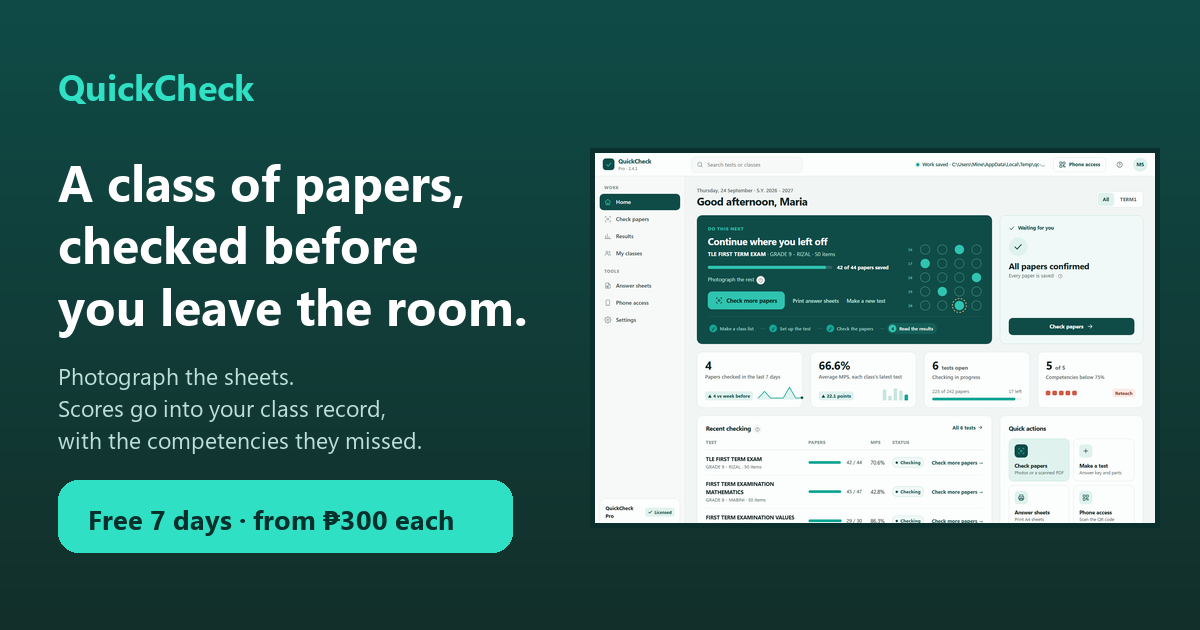
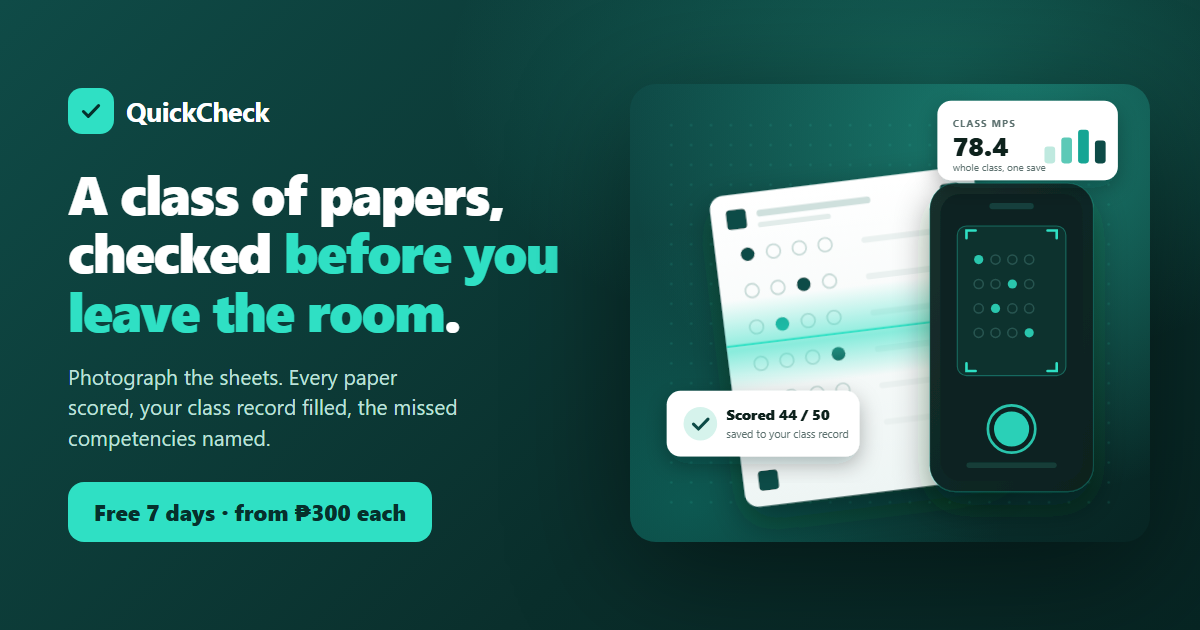
Designed artwork instead of app screenshots
Screenshots of a desktop app made the page look dated and, at page size, unreadable. The hero, the learning-gaps section and the class-record section are now drawn artwork in the brand colours: a phone photographing an answer sheet with the score and class result beside it, competencies ranked weakest first with the learners named, and scores landing in a class record with the backup and report. They are SVG, so they stay sharp on any screen and weigh a few kilobytes instead of a few hundred. The Facebook share picture is rebuilt from the same artwork.

diff --git a/index.html b/index.html
@@ -105,30 +105,11 @@
   .hero-trust span{display:flex; align-items:center; gap:8px; font-size:13.5px; color:var(--muted); font-weight:600;}
   .hero-trust svg{width:17px; height:17px; color:var(--teal);}
 
-  /* Device pictures */
-  .shots{position:relative; padding:10px 0 30px;}
-  .shots .laptop{position:relative; background:var(--paper); border:1px solid var(--line); border-radius:16px;
-    box-shadow:var(--shadow-l); overflow:hidden;}
-  .shots .bar{display:flex; align-items:center; gap:6px; padding:9px 12px; background:var(--panel); border-bottom:1px solid var(--line);}
-  .shots .bar i{width:9px; height:9px; border-radius:50%; background:var(--line); display:block;}
-  .shots .bar i:first-child{background:#f0b8ab;} .shots .bar i:nth-child(2){background:#f3d9a5;} .shots .bar i:nth-child(3){background:var(--teal-edge);}
-  .shots .phone{position:absolute; right:-14px; bottom:-8px; width:31%; min-width:150px; background:var(--teal-night);
-    border-radius:26px; padding:7px; box-shadow:var(--shadow-l); border:1px solid rgba(255,255,255,.08);}
-  .shots .phone img{border-radius:20px;}
-  .chip{position:absolute; display:flex; align-items:center; gap:10px; background:var(--paper); border:1px solid var(--line);
-    border-radius:14px; padding:10px 14px; box-shadow:var(--shadow); font-size:13px; font-weight:700;}
-  .chip small{display:block; font-size:11.5px; font-weight:600; color:var(--muted);}
-  .chip .dot{width:30px; height:30px; border-radius:10px; display:grid; place-items:center; flex:0 0 auto;}
-  .chip .dot svg{width:16px; height:16px;}
-  .chip.one{left:-16px; top:12%;} .chip.one .dot{background:var(--teal-soft); color:var(--teal-deep);}
-  .chip.two{left:-26px; bottom:18%;} .chip.two .dot{background:var(--amber-bg); color:var(--amber);}
-  @media (max-width:1100px){ .chip.one{left:-6px;} .chip.two{left:-10px;} }
-  @media (max-width:980px){
-    .hero{grid-template-columns:1fr; gap:34px; padding-top:34px;}
-    .hero .lead{max-width:none;}
-    .chip.one{left:auto; right:6px; top:-12px;} .chip.two{left:-4px; bottom:-10px;}
-  }
-  @media (max-width:560px){ .chip{font-size:12px; padding:8px 11px;} .chip small{display:none;} }
+  /* Hero artwork */
+  .shots{display:flex; justify-content:center;}
+  .hero-art{width:100%; max-width:600px; height:auto; filter:drop-shadow(0 30px 60px rgba(12,55,52,.22));}
+  .split .pic img{border:0; box-shadow:none; filter:drop-shadow(0 22px 44px rgba(12,55,52,.16));}
+  @media (max-width:980px){ .hero{grid-template-columns:1fr; gap:34px; padding-top:34px;} .hero .lead{max-width:none;} }
 
   /* ---------- Proof strip ---------- */
   .strip{background:var(--paper); border-top:1px solid var(--line); border-bottom:1px solid var(--line); padding:26px 0;}
@@ -293,21 +274,7 @@
       </div>
 
       <div class="shots">
-        <div class="laptop">
-          <div class="bar" aria-hidden="true"><i></i><i></i><i></i></div>
-          <img src="images/app-dashboard.webp" width="1240" height="861" alt="QuickCheck on a Windows PC: the home screen showing what to do next, papers checked this week, class averages and recent tests">
-        </div>
-        <div class="phone">
-          <img src="images/app-scan-phone.webp" width="390" height="800" alt="QuickCheck on a phone: a large Take a paper button that opens the camera">
-        </div>
-        <div class="chip one">
-          <span class="dot"><svg viewBox="0 0 24 24" fill="none" stroke="currentColor" stroke-width="2.4"><path d="M20 6L9 17l-5-5"/></svg></span>
-          <span>42 of 44 papers<small>scored as you photograph</small></span>
-        </div>
-        <div class="chip two">
-          <span class="dot"><svg viewBox="0 0 24 24" fill="none" stroke="currentColor" stroke-width="2.2"><circle cx="12" cy="12" r="4"/><path d="M12 2v3M12 19v3M2 12h3M19 12h3"/></svg></span>
-          <span>Least mastered<small>named, not guessed</small></span>
-        </div>
+        <img class="hero-art" src="images/art-hero.svg" width="680" height="600" alt="A phone photographing an answer sheet: the paper is scored and the class result appears beside it">
       </div>
     </section>
   </div>
@@ -369,7 +336,7 @@
   <section>
     <div class="wrap">
       <div class="split">
-        <div class="pic"><img src="images/app-competencies.webp" width="1240" height="990" alt="Competency results in QuickCheck: class MPS, the competencies below the cutoff ranked weakest first, and the learners who need support in each one"></div>
+        <div class="pic"><img src="images/art-gaps.svg" width="640" height="520" alt="Competencies ranked weakest first, with the learners who need help named under the lowest one"></div>
         <div>
           <p class="eyebrow">The part nobody has time for</p>
           <h2>37 out of 50 can still hide a gap.</h2>
@@ -390,7 +357,7 @@
   <section style="padding-top:0">
     <div class="wrap">
       <div class="split flip">
-        <div class="pic"><img src="images/app-results.webp" width="1240" height="861" alt="A checked test in QuickCheck: where it stands, and buttons to the class record, the item analysis and the competencies"></div>
+        <div class="pic"><img src="images/art-record.svg" width="640" height="520" alt="Scores moving from the photographed papers into a class record, with a backup kept and the report ready"></div>
         <div>
           <p class="eyebrow">After the last photo</p>
           <h2>The paperwork is already done.</h2>
